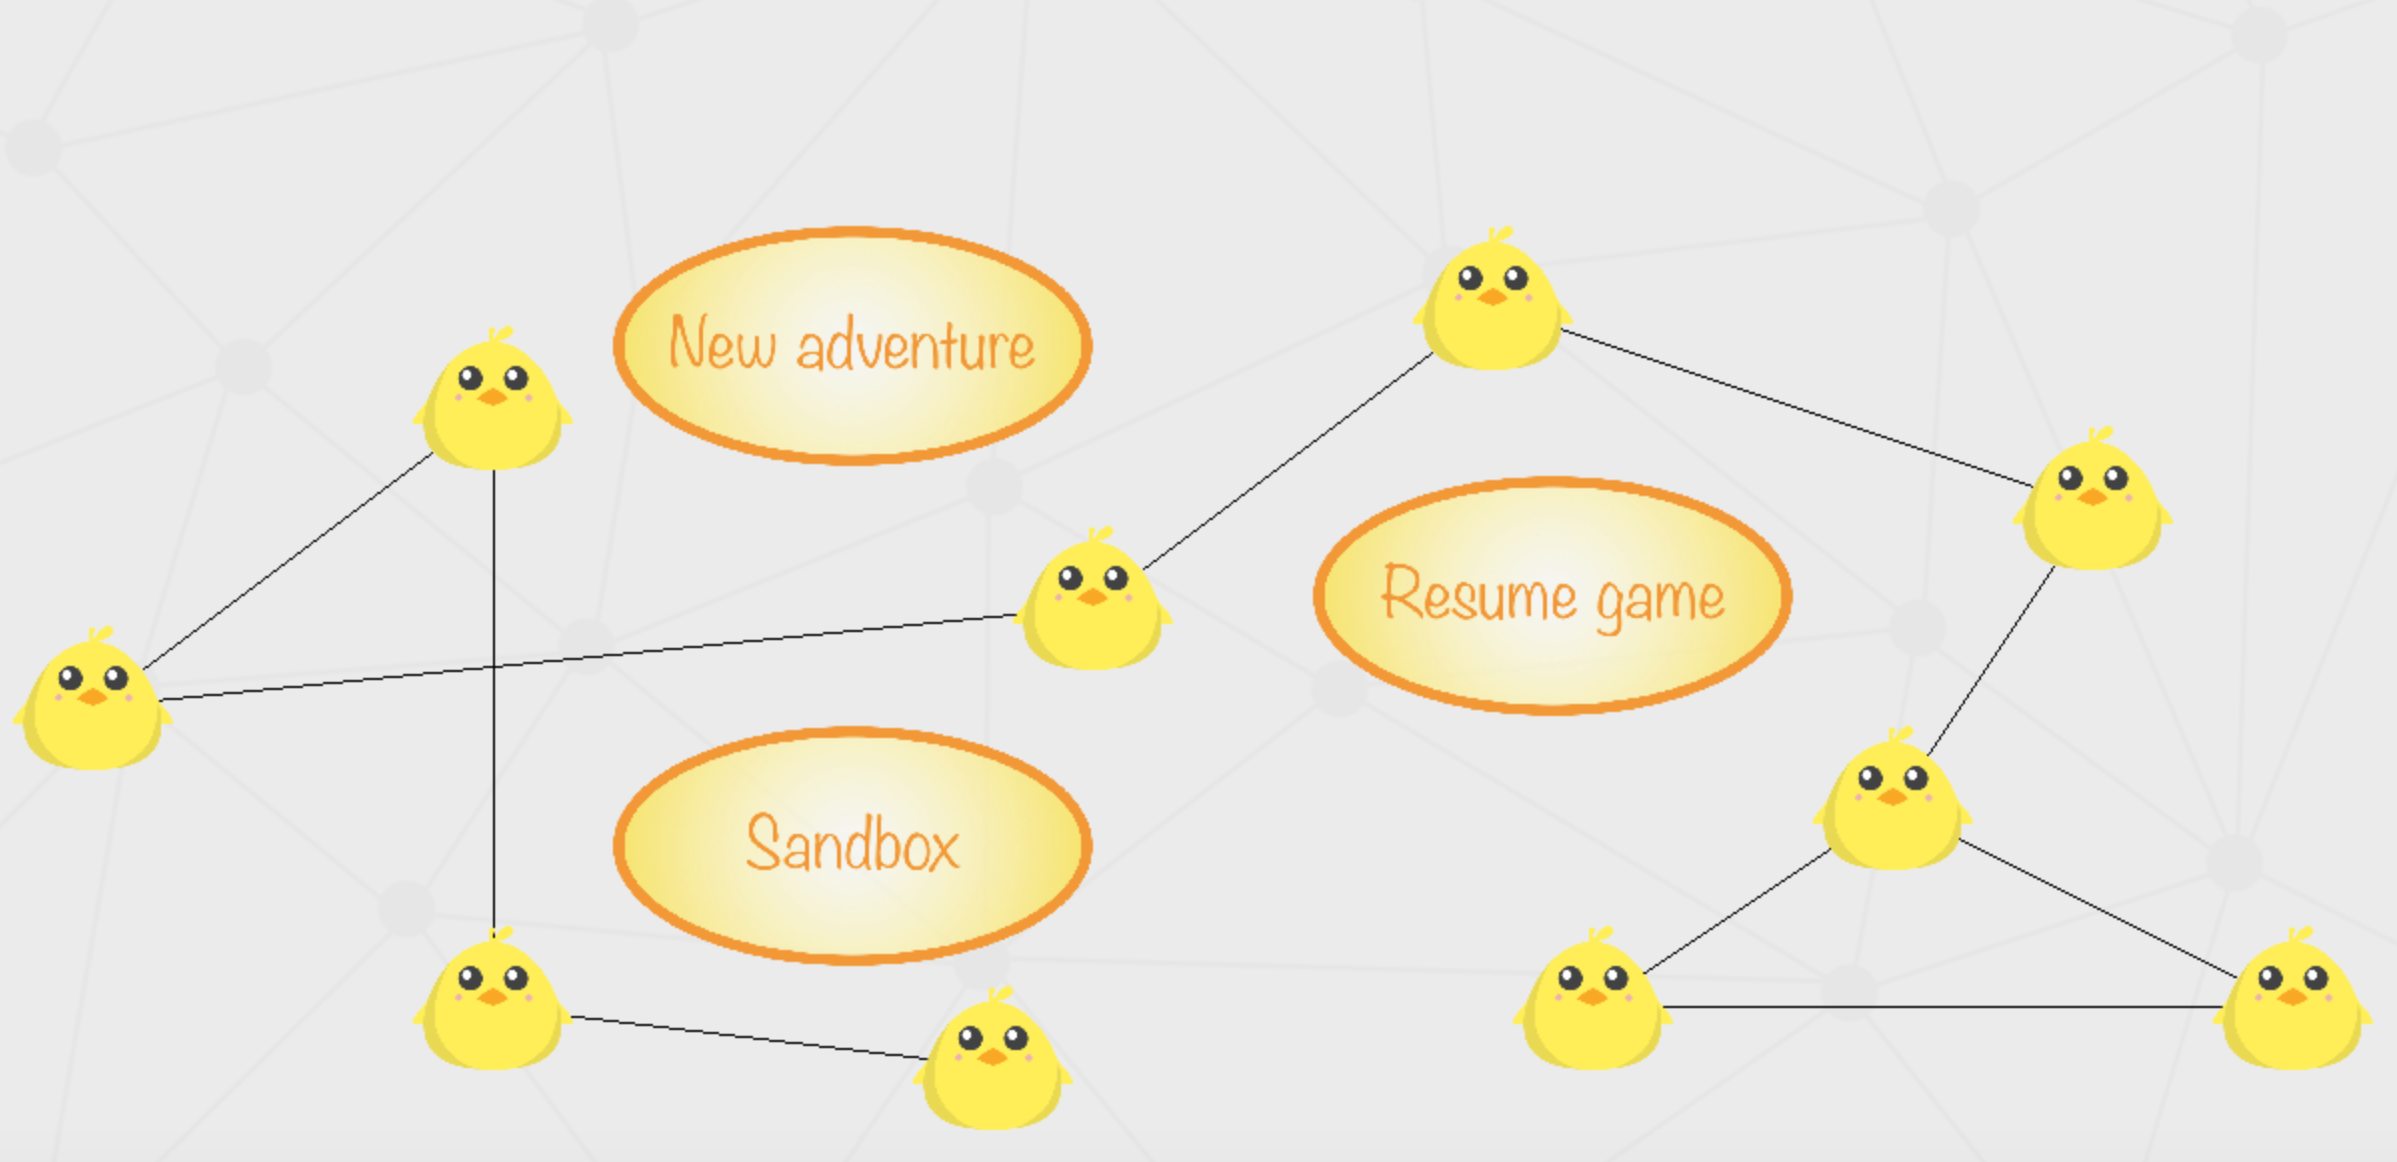
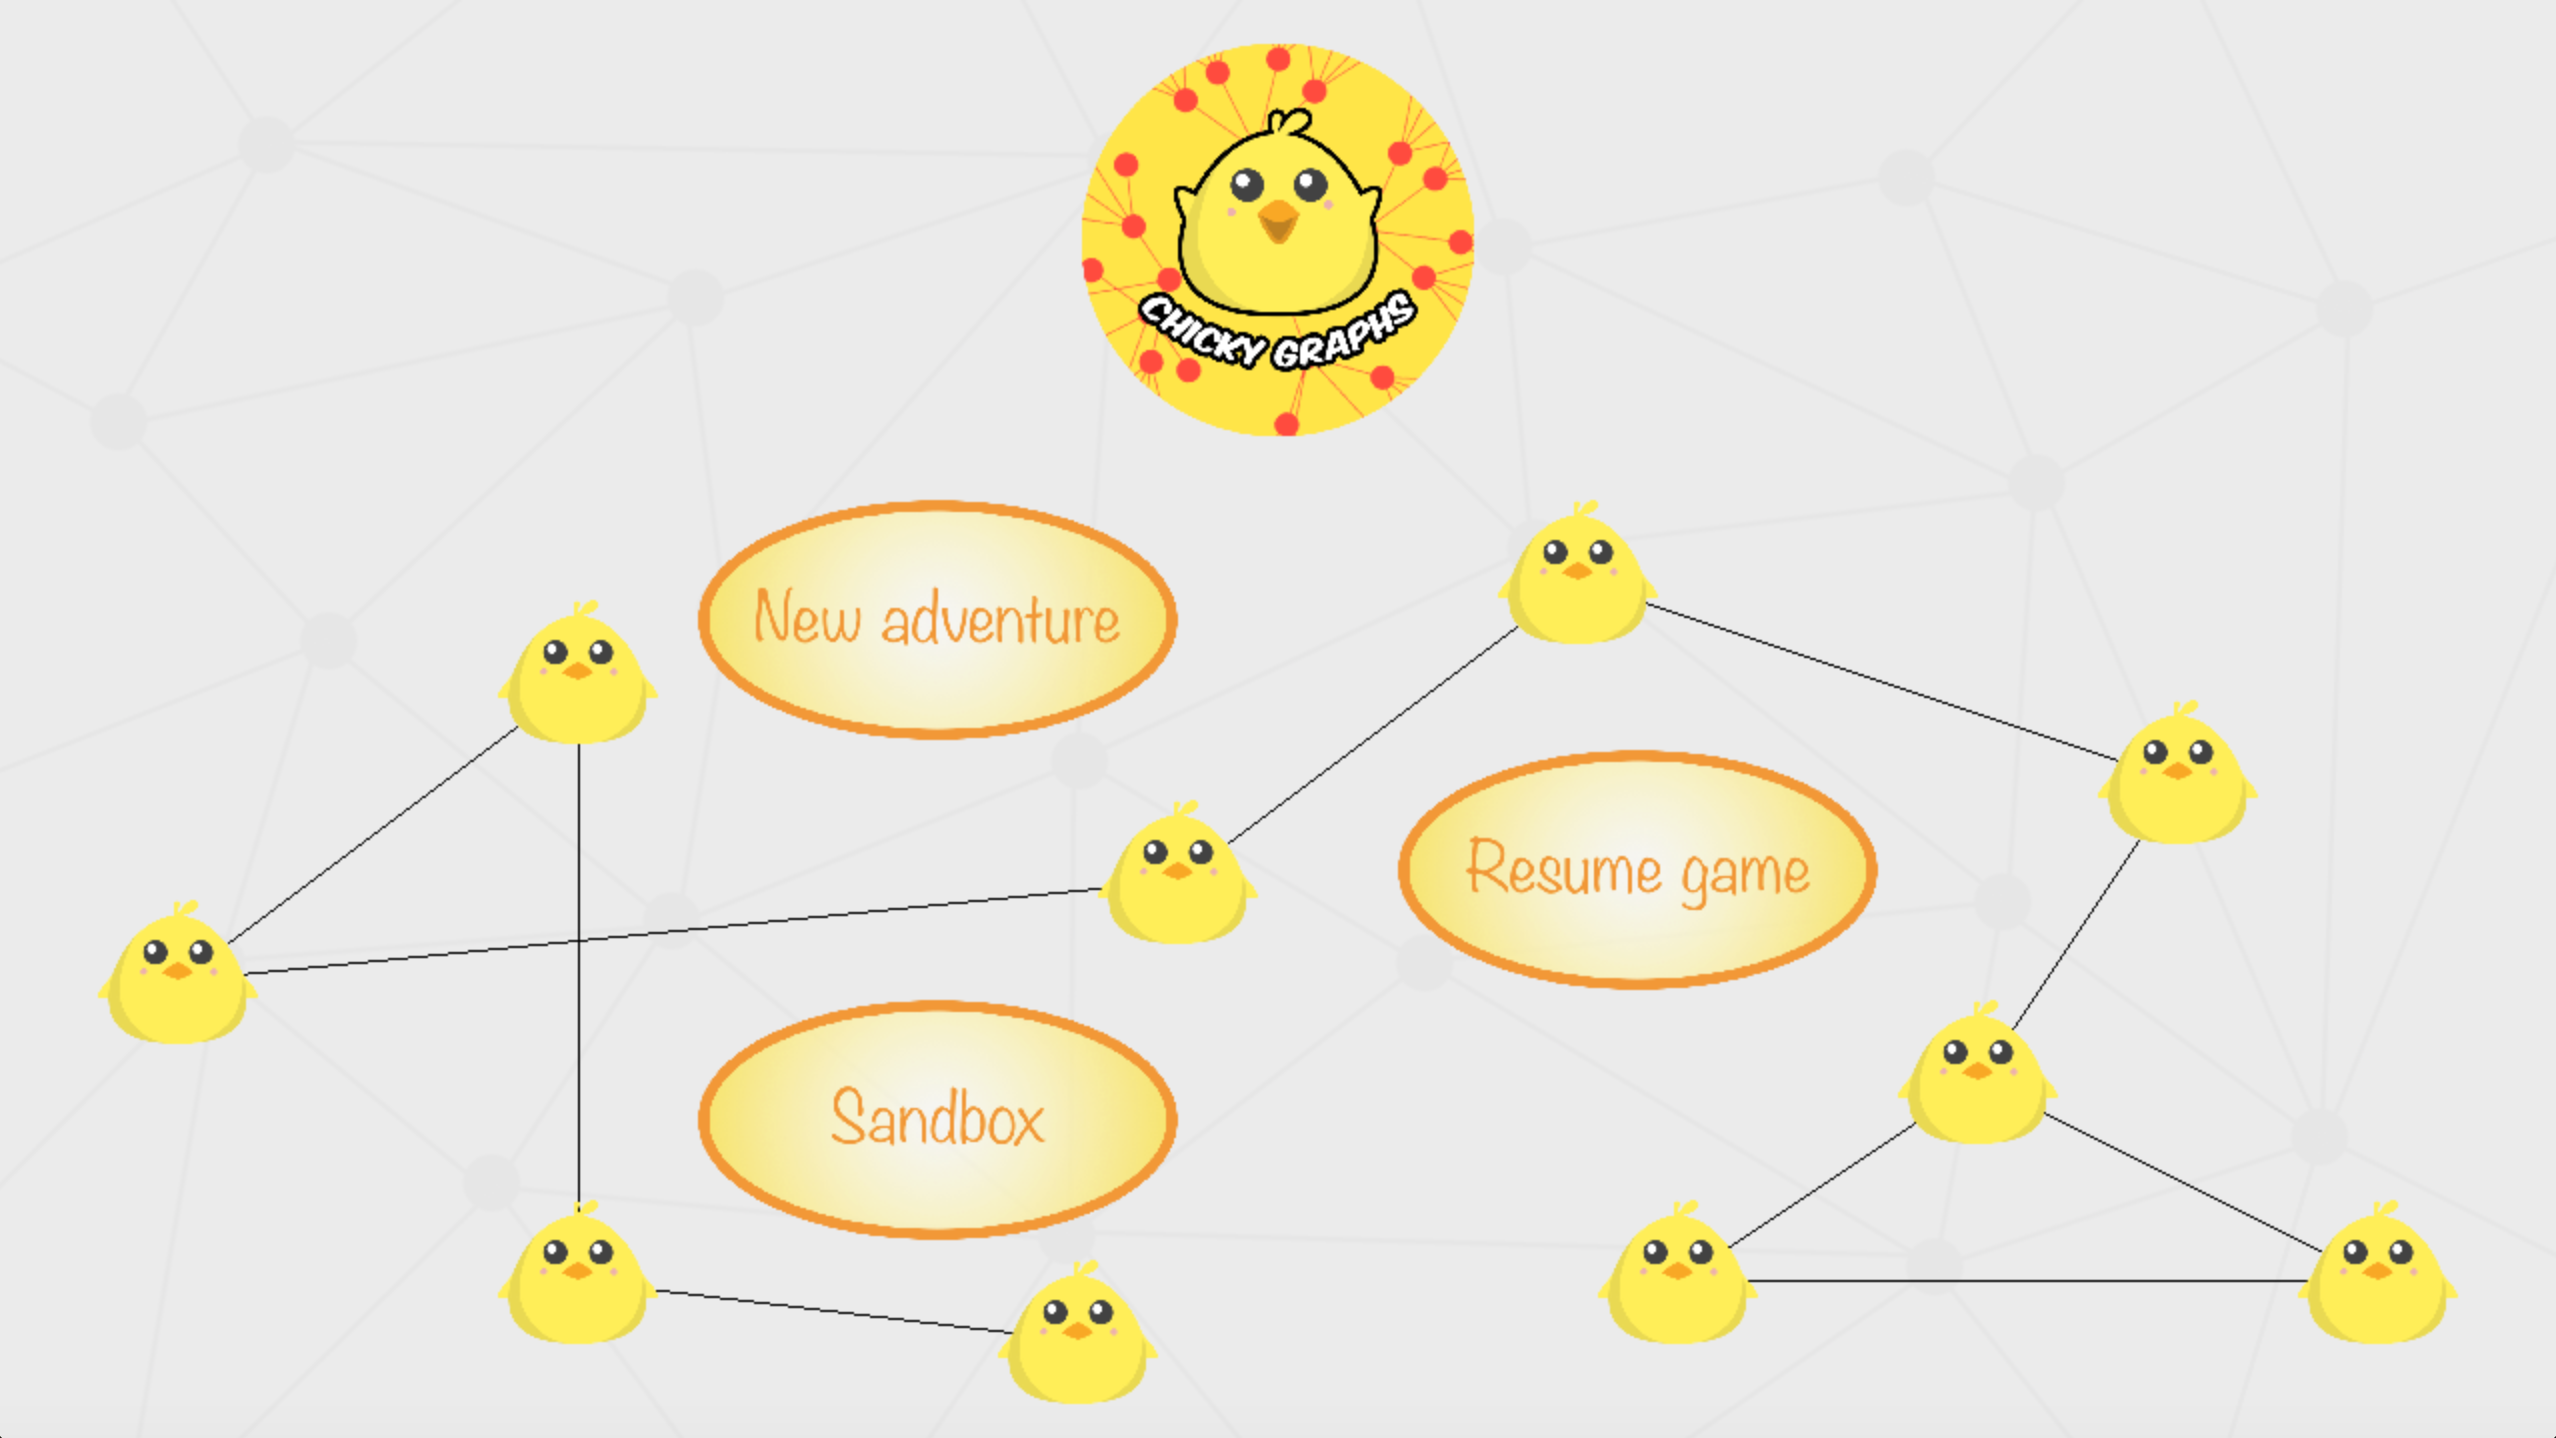
Added games description

diff --git a/chicky_graphs.html b/chicky_graphs.html
@@ -43,7 +43,63 @@
 		</div>
 	</header>
 	<main class="main">
-		<p>Bonjour</p>
+		<div id="game">
+			<img src="assets/chicky_graphs.png" alt="chicky graphs logo" id="logo">
+			<img src="assets/chicky_graphs_screen_color.png" alt="chicky graphs screenshot" id="screenshot">
+			<h1 id="title">Chicky Graphs</h1><br>
+			<h3>What is this game ?</h3>
+			<p>This game is the result of our collaboration with Chloé Crayon and Gabriela De Almeida during the third semester of our studies at Efrei Paris. We decided to go further than lists and trees in C language, so we developpeda gme based on graphs.</p>
+			<p>What is the theory of graphs? It covers everything about graphs: how to deal with them, their implementation, traversals graphs, spanning forests, etc...</p><br>
+			<h3>What is the goal ?</h3>
+			<p>Our idea was to develop a learning software dedicated to learning how graphs work and how to use them. A tree is a particular graph, thus it is a way for us to approach this notion and transmit what we learned through the different stages of creation of this project.</p>
+			<p>The public aimed is students like we were and even younger, aged from 15-16. Indeed, we wanted Chicky Graphs to be a fun way to approach a the complicated subject of the theory of graphs.</p><br>
+			<h3>How to play ?</h3>
+			<table>
+				<tr>
+					<th>Function</th>
+					<th>Command</th>
+				</tr>
+				<tr>
+					<td>Next Mission</td>
+					<td>Next</td>
+				</tr>
+				<tr>
+					<td>Create Chick</td>
+					<td>Left click</td>
+				</tr>
+				<tr>
+					<td>Delete Chick</td>
+					<td>Right click</td>
+				</tr>
+				<tr>
+					<td>Move Chick</td>
+					<td>Keep left click</td>
+				</tr>
+				<tr>
+					<td>Create link</td>
+					<td>Keep right click between two Chicks</td>
+				</tr>
+				<tr>
+					<td>Delete link</td>
+					<td>Keep left click between two Chicks</td>
+				</tr>
+				<tr>
+					<td>Infect Chick</td>
+					<td>Press 'I' on the chick</td>
+				</tr>
+				<tr>
+					<td>Contaminate Chicks</td>
+					<td>Press 'C'</td>
+				</tr>
+				<tr>
+					<td>Change texture of Chick</td>
+					<td>press 'N' on the chick</td>
+				</tr>
+			</table><br>
+			<h3>Can I install the game ?</h3>
+			<p>If you are interested, you can dowload the Windows installer now for free !</p><br>
+			<a id="download" href="https://mega.nz/#!zfYmUCJa!-NBQdSjhUCUHOtZAhcMUX8NihXe7XrRcffF1NS4taAI" target="_blank">Download</a>
+		</div>
 	</main>
 	<footer>
 		Copyright © 2019 Tardigradus | <a href="about.html">Legal notice</a>

diff --git a/insert_name.html b/insert_name.html
@@ -44,15 +44,20 @@
 	</header>
 	<main class="main">
         <div id="game">
-            <div id="logo">
-                <img src="assets/insert_name.png" alt="insert name logo"/>
-            </div>
-            <div id="screenshot">
-                <img src="assets/insert_name_screen.png" alt="insert name screenshot"/>
-            </div>
-            <div>
-                <h1 id="title">[INSERT NAME]</h1>
-            </div>
+            <img src="assets/insert_name.png" alt="insert name logo" id="logo">
+            <img src="assets/insert_name_screen_color.png" alt="insert name screenshot" id="screenshot">
+            <h1 id="title">[INSERT NAME]</h1><br>
+			<h3>What is this prohect ?</h3>
+			<p>This project is a redesign of our first Chicky Graphs game, which aims much further in the learning of computer science. To start this new project, we choose to collaborate with three Coventry students.</p>
+			<p>The objective of this game is to realize a game that will teach the user how to code. This is a story-based game and the user unlocks the different lessons as he progresses in the game.</p><br>
+			<h3>How does it work ?</h3>
+			<p>We choose to build a story game on data structures and other computer science related topics like variables, functions, the different major architectures, design patterns etc...</p>
+			<p>The user will have to retain the information. The game will thus make him practice his reasoning skills and programming knowledge. To do so, we are implementing an editor inside our application with puzzles that the user will have to solve. The user will be able to run his program, which will be checked.</p>
+			<p>If the user succeeds in completing the puzzle, he will continue the story with the next mission.</p><br>
+			<h3>But why making a story out of it ?</h3>
+			<p>We really think that making something involving helps in learning and retaining concepts. Making it really concrete and having tangible consequences to your actions helps remembering what you did.</p>
+			<h3>Soon available !</h3>
+			<p>Stay tuned ! Our new game is in progress an will soon be released...</p>
         </div>
 	</main>
 	<footer>

diff --git a/game_style.css b/game_style.css
@@ -6,6 +6,7 @@
     padding: 5%;
     background-color: #39495C;
     box-shadow: 0 0 30px rgba(16,14,23,.75);
+    border-radius: 10px;
 }
 
 #logo {
@@ -14,10 +15,6 @@
     left: -50px;
     width: 100px;
     z-index: 3;
-}
-
-#logo img {
-    width: 100%;
 }
 
 @media only screen and (max-width: 630px) {
@@ -34,11 +31,49 @@
 #screenshot {
     width: 100%;
     margin: auto;
-    box-shadow: 0 4px 8px 0 rgba(0, 0, 0, 0.2), 0 6px 20px 0 rgba(0, 0, 0, 0.19);
-}
-
-#screenshot img {
-    width: 100%;
     max-height: auto;
     box-shadow: 0 4px 8px 0 rgba(0, 0, 0, 0.2), 0 6px 20px 0 rgba(0, 0, 0, 0.19);
+}
+#title {
+    color: #EDF0F1;
+    margin-bottom: 0px;
+}
+p, h3 {
+    color: #EDF0F1;
+}
+table {
+    color: #EDF0F1;
+    margin: 2px;
+    border-collapse: collapse;
+}
+th, td {
+    border: 1px solid #EDF0F1;
+    padding: 10px;
+    text-align: center;
+}
+tr:nth-child(odd) {
+    background-color: #2F3E4E;
+}
+tr:nth-child(even) {
+    background-color: #3C5064;
+}
+th {
+    background-color: #0F151B;
+}
+#download {
+    display: block;
+    margin: auto;
+    width: 30%;
+    padding: 15px 0px;
+    text-decoration: none;
+    text-align: center;
+    background-color: #447EB4;
+    color: #EDF0F1;
+    font-size: 17px;
+    text-transform: uppercase;
+    border-radius: 3px;    
+}
+#download:hover {
+    background-color: #2F3E4E;
+    cursor: pointer;
 }

diff --git a/games.html b/games.html
@@ -63,7 +63,7 @@
                             <h3>Chicky Graphs</h3>
                         </div>
                         <div class="image">
-                            <img src="assets/chicky-graphs.png" alt="Chicky Graphs"/>
+                            <img src="assets/chicky_graphs.png" alt="Chicky Graphs"/>
                         </div>
                     </div>
                 </a>

diff --git a/index.html b/index.html
@@ -71,7 +71,7 @@
                             <h3>Chicky Graphs</h3>
                         </div>
                         <div class="image">
-                            <img src="assets/chicky-graphs.png" alt="Chicky Graphs"/>
+                            <img src="assets/chicky_graphs.png" alt="Chicky Graphs"/>
                         </div>
                     </div>
                 </a>

diff --git a/style.css b/style.css
@@ -144,10 +144,14 @@ div.item a {
     text-decoration: none;
 }
 div.game {
+    margin-bottom: 20px;
     padding: 1rem;
     background-color: #10151A;
     border-radius: 1rem;
-    box-shadow: 0 0 30px rgba(16,14,23,.5);
+    box-shadow: 0 0 5px rgba(16,14,23,.2);
+}
+div.game:hover {
+    box-shadow: 0 0 20px rgba(16,14,23,.5);
 }
 div.title {
     text-align: center;

diff --git a/til_style.css b/til_style.css
@@ -43,6 +43,7 @@ button:hover {
 	background-color: #55AC68;
 	cursor: pointer;
 }
+
 /* Posts */
 #posts {
 	display: flex;
